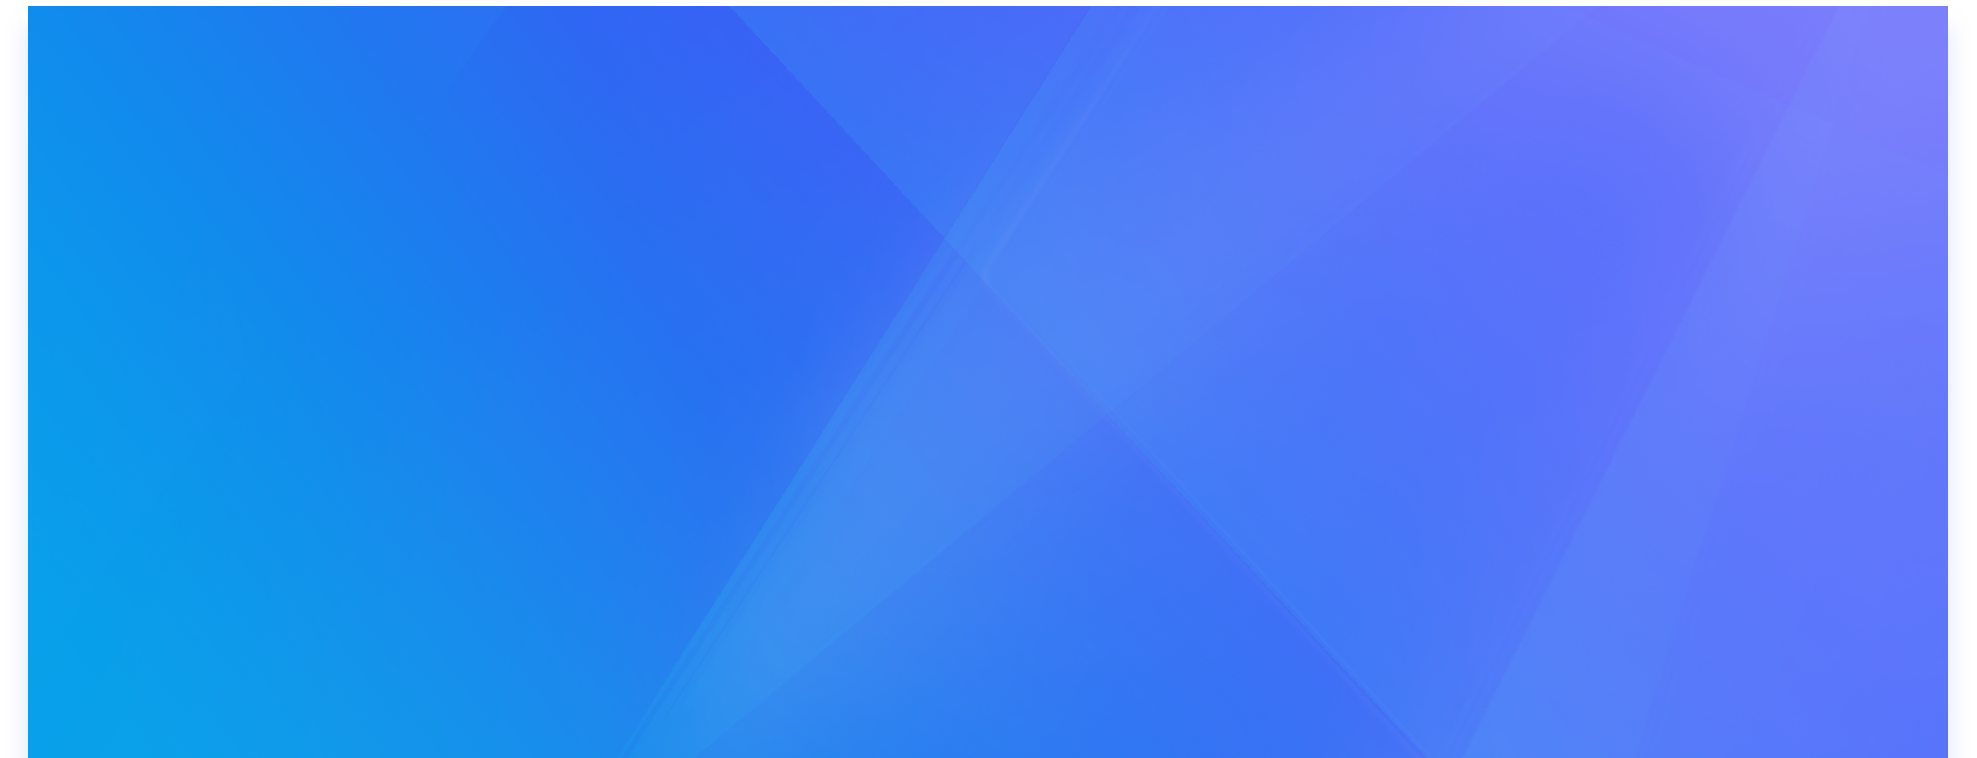
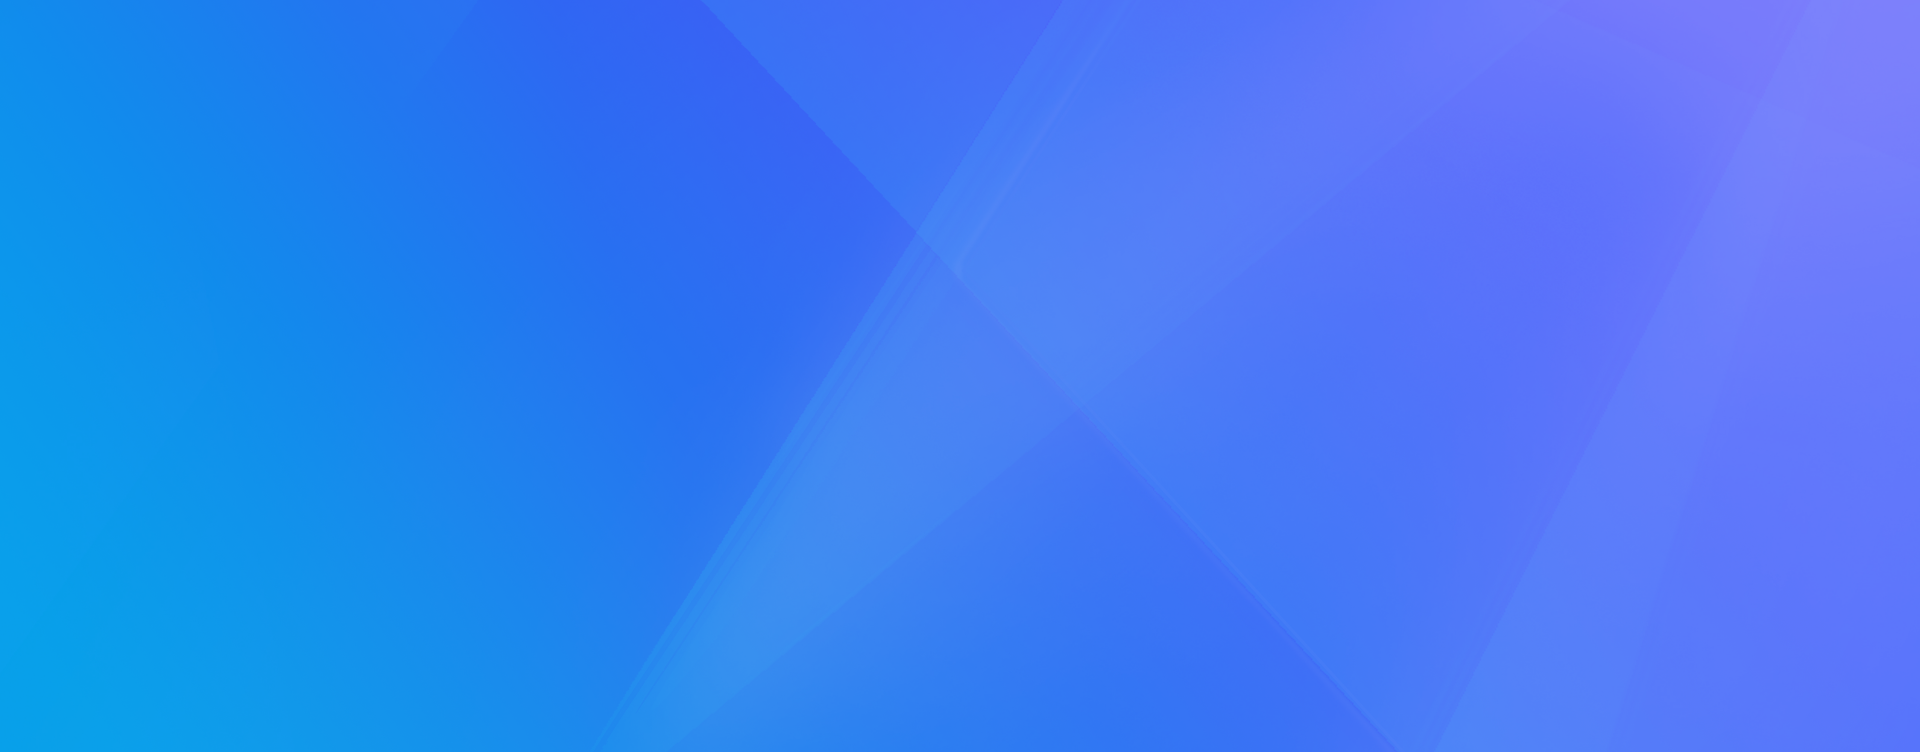
裁剪图片

Changed region(s): [[0.0, 0.0, 1.0, 1.0]]

diff --git a/public/index.html b/public/index.html
@@ -1,16 +1,30 @@
 <!DOCTYPE html>
 <html>
+  <head>
+    <meta charset="utf-8" />
+    <meta http-equiv="X-UA-Compatible" content="IE=edge" />
+    <meta name="viewport" content="width=device-width,initial-scale=1.0" />
+    <link rel="icon" href="<%= BASE_URL %>favicon.ico" />
+    <title>SenKuaGe</title>
+  </head>
 
-<head>
-  <meta charset="utf-8">
-  <meta http-equiv="X-UA-Compatible" content="IE=edge">
-  <meta name="viewport" content="width=device-width,initial-scale=1.0">
-  <link rel="icon" href="<%= BASE_URL %>favicon.ico">
-  <title>SenKuaGe</title>
-</head>
-
-<body>
-  <div id="app"></div>
-</body>
-
+  <body>
+    <div id="app"></div>
+    <script>
+      (function(doc, win) {
+        var docEl = doc.documentElement,
+          resizeEvt =
+            "orientationchange" in window ? "orientationchange" : "resize",
+          recalc = function() {
+            var clientWidth = docEl.clientWidth;
+            if (!clientWidth) return;
+            docEl.style.fontSize = 10 * (clientWidth / 375) + "px";
+          };
+        recalc();
+        if (!doc.addEventListener) return;
+        win.addEventListener(resizeEvt, recalc, false);
+        doc.addEventListener("DOMContentLoaded", recalc, false);
+      })(document, window);
+    </script>
+  </body>
 </html>
